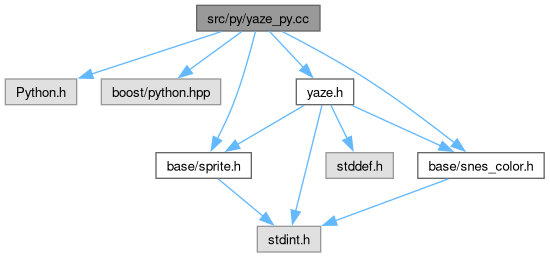
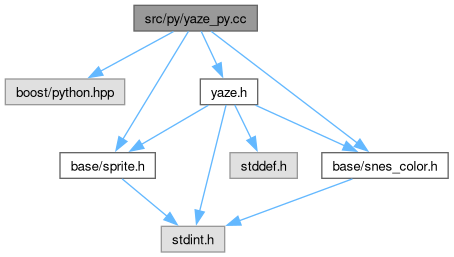
deploy: 594b2498e80bea2a755b8f6b74890b35a70939d6

diff --git a/files.html b/files.html
@@ -304,23 +304,24 @@ $(function(){initNavTree('files.html',''); initResizable(true); });
 <tr id="row_1_4_" class="even"><td class="entry"><span style="width:16px;display:inline-block;">&#160;</span><span id="arr_1_4_" class="arrow" onclick="dynsection.toggleFolder('1_4_')">&#9660;</span><span id="img_1_4_" class="iconfopen" onclick="dynsection.toggleFolder('1_4_')">&#160;</span><a class="el" href="dir_645321f104a15b03e39fc251b9508b71.html" target="_self">ios</a></td><td class="desc"></td></tr>
 <tr id="row_1_4_0_" class="odd"><td class="entry"><span style="width:48px;display:inline-block;">&#160;</span><span class="icondoc"></span><a class="el" href="main_8mm.html" target="_self">main.mm</a></td><td class="desc"></td></tr>
 <tr id="row_1_5_" class="even"><td class="entry"><span style="width:16px;display:inline-block;">&#160;</span><span id="arr_1_5_" class="arrow" onclick="dynsection.toggleFolder('1_5_')">&#9660;</span><span id="img_1_5_" class="iconfopen" onclick="dynsection.toggleFolder('1_5_')">&#160;</span><a class="el" href="dir_a93a2bf9e4fdfd9b0c8f935e1e182eb2.html" target="_self">py</a></td><td class="desc"></td></tr>
-<tr id="row_1_5_0_" class="odd"><td class="entry"><span style="width:48px;display:inline-block;">&#160;</span><span class="icondoc"></span><a class="el" href="yaze__py_8cc.html" target="_self">yaze_py.cc</a></td><td class="desc"></td></tr>
-<tr id="row_1_6_" class="even"><td class="entry"><span style="width:16px;display:inline-block;">&#160;</span><span id="arr_1_6_" class="arrow" onclick="dynsection.toggleFolder('1_6_')">&#9660;</span><span id="img_1_6_" class="iconfopen" onclick="dynsection.toggleFolder('1_6_')">&#160;</span><a class="el" href="dir_120ed4da3e3217b1e7fc0b4f48568e79.html" target="_self">test</a></td><td class="desc"></td></tr>
-<tr id="row_1_6_0_" class="odd"><td class="entry"><span style="width:32px;display:inline-block;">&#160;</span><span id="arr_1_6_0_" class="arrow" onclick="dynsection.toggleFolder('1_6_0_')">&#9658;</span><span id="img_1_6_0_" class="iconfclosed" onclick="dynsection.toggleFolder('1_6_0_')">&#160;</span><a class="el" href="dir_20afefca2b1968c5d0cb0688c7ec6224.html" target="_self">emu</a></td><td class="desc"></td></tr>
-<tr id="row_1_6_0_0_" class="even" style="display:none;"><td class="entry"><span style="width:64px;display:inline-block;">&#160;</span><span class="icondoc"></span><a class="el" href="cpu__test_8cc.html" target="_self">cpu_test.cc</a></td><td class="desc"></td></tr>
-<tr id="row_1_6_0_1_" class="even" style="display:none;"><td class="entry"><span style="width:64px;display:inline-block;">&#160;</span><span class="icondoc"></span><a class="el" href="ppu__test_8cc.html" target="_self">ppu_test.cc</a></td><td class="desc"></td></tr>
-<tr id="row_1_6_0_2_" class="even" style="display:none;"><td class="entry"><span style="width:64px;display:inline-block;">&#160;</span><span class="icondoc"></span><a class="el" href="spc700__test_8cc.html" target="_self">spc700_test.cc</a></td><td class="desc"></td></tr>
-<tr id="row_1_6_1_" class="even"><td class="entry"><span style="width:32px;display:inline-block;">&#160;</span><span id="arr_1_6_1_" class="arrow" onclick="dynsection.toggleFolder('1_6_1_')">&#9658;</span><span id="img_1_6_1_" class="iconfclosed" onclick="dynsection.toggleFolder('1_6_1_')">&#160;</span><a class="el" href="dir_55da2eb2de168aa04f8184897c7a3cff.html" target="_self">gfx</a></td><td class="desc"></td></tr>
-<tr id="row_1_6_1_0_" class="odd" style="display:none;"><td class="entry"><span style="width:64px;display:inline-block;">&#160;</span><span class="icondoc"></span><a class="el" href="compression__test_8cc.html" target="_self">compression_test.cc</a></td><td class="desc"></td></tr>
-<tr id="row_1_6_1_1_" class="odd" style="display:none;"><td class="entry"><span style="width:64px;display:inline-block;">&#160;</span><span class="icondoc"></span><a class="el" href="snes__palette__test_8cc.html" target="_self">snes_palette_test.cc</a></td><td class="desc"></td></tr>
-<tr id="row_1_6_2_" class="odd"><td class="entry"><span style="width:32px;display:inline-block;">&#160;</span><span id="arr_1_6_2_" class="arrow" onclick="dynsection.toggleFolder('1_6_2_')">&#9658;</span><span id="img_1_6_2_" class="iconfclosed" onclick="dynsection.toggleFolder('1_6_2_')">&#160;</span><a class="el" href="dir_3d048fb26aa7cc0556c935795e98647c.html" target="_self">zelda3</a></td><td class="desc"></td></tr>
-<tr id="row_1_6_2_0_" class="even" style="display:none;"><td class="entry"><span style="width:64px;display:inline-block;">&#160;</span><span class="icondoc"></span><a class="el" href="room__object__test_8cc.html" target="_self">room_object_test.cc</a></td><td class="desc"></td></tr>
-<tr id="row_1_6_2_1_" class="even" style="display:none;"><td class="entry"><span style="width:64px;display:inline-block;">&#160;</span><span class="icondoc"></span><a class="el" href="sprite__builder__test_8cc.html" target="_self">sprite_builder_test.cc</a></td><td class="desc"></td></tr>
-<tr id="row_1_6_3_" class="even"><td class="entry"><span style="width:48px;display:inline-block;">&#160;</span><span class="icondoc"></span><a class="el" href="libc__test_8cc.html" target="_self">libc_test.cc</a></td><td class="desc"></td></tr>
-<tr id="row_1_6_4_" class="odd"><td class="entry"><span style="width:48px;display:inline-block;">&#160;</span><span class="icondoc"></span><a class="el" href="rom__test_8cc.html" target="_self">rom_test.cc</a></td><td class="desc"></td></tr>
-<tr id="row_1_6_5_" class="even"><td class="entry"><span style="width:48px;display:inline-block;">&#160;</span><span class="icondoc"></span><a class="el" href="yaze__test_8cc.html" target="_self">yaze_test.cc</a></td><td class="desc"></td></tr>
-<tr id="row_1_7_" class="odd"><td class="entry"><span style="width:32px;display:inline-block;">&#160;</span><span class="icondoc"></span><a class="el" href="yaze_8cc.html" target="_self">yaze.cc</a></td><td class="desc"></td></tr>
-<tr id="row_1_8_" class="even"><td class="entry"><span style="width:32px;display:inline-block;">&#160;</span><a href="yaze_8h_source.html"><span class="icondoc"></span></a><a class="el" href="yaze_8h.html" target="_self">yaze.h</a></td><td class="desc"></td></tr>
+<tr id="row_1_5_0_" class="odd"><td class="entry"><span style="width:48px;display:inline-block;">&#160;</span><span class="icondoc"></span><a class="el" href="yaze__c__py_8cc.html" target="_self">yaze_c_py.cc</a></td><td class="desc"></td></tr>
+<tr id="row_1_5_1_" class="even"><td class="entry"><span style="width:48px;display:inline-block;">&#160;</span><span class="icondoc"></span><a class="el" href="yaze__py_8cc.html" target="_self">yaze_py.cc</a></td><td class="desc"></td></tr>
+<tr id="row_1_6_" class="odd"><td class="entry"><span style="width:16px;display:inline-block;">&#160;</span><span id="arr_1_6_" class="arrow" onclick="dynsection.toggleFolder('1_6_')">&#9660;</span><span id="img_1_6_" class="iconfopen" onclick="dynsection.toggleFolder('1_6_')">&#160;</span><a class="el" href="dir_120ed4da3e3217b1e7fc0b4f48568e79.html" target="_self">test</a></td><td class="desc"></td></tr>
+<tr id="row_1_6_0_" class="even"><td class="entry"><span style="width:32px;display:inline-block;">&#160;</span><span id="arr_1_6_0_" class="arrow" onclick="dynsection.toggleFolder('1_6_0_')">&#9658;</span><span id="img_1_6_0_" class="iconfclosed" onclick="dynsection.toggleFolder('1_6_0_')">&#160;</span><a class="el" href="dir_20afefca2b1968c5d0cb0688c7ec6224.html" target="_self">emu</a></td><td class="desc"></td></tr>
+<tr id="row_1_6_0_0_" class="odd" style="display:none;"><td class="entry"><span style="width:64px;display:inline-block;">&#160;</span><span class="icondoc"></span><a class="el" href="cpu__test_8cc.html" target="_self">cpu_test.cc</a></td><td class="desc"></td></tr>
+<tr id="row_1_6_0_1_" class="odd" style="display:none;"><td class="entry"><span style="width:64px;display:inline-block;">&#160;</span><span class="icondoc"></span><a class="el" href="ppu__test_8cc.html" target="_self">ppu_test.cc</a></td><td class="desc"></td></tr>
+<tr id="row_1_6_0_2_" class="odd" style="display:none;"><td class="entry"><span style="width:64px;display:inline-block;">&#160;</span><span class="icondoc"></span><a class="el" href="spc700__test_8cc.html" target="_self">spc700_test.cc</a></td><td class="desc"></td></tr>
+<tr id="row_1_6_1_" class="odd"><td class="entry"><span style="width:32px;display:inline-block;">&#160;</span><span id="arr_1_6_1_" class="arrow" onclick="dynsection.toggleFolder('1_6_1_')">&#9658;</span><span id="img_1_6_1_" class="iconfclosed" onclick="dynsection.toggleFolder('1_6_1_')">&#160;</span><a class="el" href="dir_55da2eb2de168aa04f8184897c7a3cff.html" target="_self">gfx</a></td><td class="desc"></td></tr>
+<tr id="row_1_6_1_0_" class="even" style="display:none;"><td class="entry"><span style="width:64px;display:inline-block;">&#160;</span><span class="icondoc"></span><a class="el" href="compression__test_8cc.html" target="_self">compression_test.cc</a></td><td class="desc"></td></tr>
+<tr id="row_1_6_1_1_" class="even" style="display:none;"><td class="entry"><span style="width:64px;display:inline-block;">&#160;</span><span class="icondoc"></span><a class="el" href="snes__palette__test_8cc.html" target="_self">snes_palette_test.cc</a></td><td class="desc"></td></tr>
+<tr id="row_1_6_2_" class="even"><td class="entry"><span style="width:32px;display:inline-block;">&#160;</span><span id="arr_1_6_2_" class="arrow" onclick="dynsection.toggleFolder('1_6_2_')">&#9658;</span><span id="img_1_6_2_" class="iconfclosed" onclick="dynsection.toggleFolder('1_6_2_')">&#160;</span><a class="el" href="dir_3d048fb26aa7cc0556c935795e98647c.html" target="_self">zelda3</a></td><td class="desc"></td></tr>
+<tr id="row_1_6_2_0_" class="odd" style="display:none;"><td class="entry"><span style="width:64px;display:inline-block;">&#160;</span><span class="icondoc"></span><a class="el" href="room__object__test_8cc.html" target="_self">room_object_test.cc</a></td><td class="desc"></td></tr>
+<tr id="row_1_6_2_1_" class="odd" style="display:none;"><td class="entry"><span style="width:64px;display:inline-block;">&#160;</span><span class="icondoc"></span><a class="el" href="sprite__builder__test_8cc.html" target="_self">sprite_builder_test.cc</a></td><td class="desc"></td></tr>
+<tr id="row_1_6_3_" class="odd"><td class="entry"><span style="width:48px;display:inline-block;">&#160;</span><span class="icondoc"></span><a class="el" href="libc__test_8cc.html" target="_self">libc_test.cc</a></td><td class="desc"></td></tr>
+<tr id="row_1_6_4_" class="even"><td class="entry"><span style="width:48px;display:inline-block;">&#160;</span><span class="icondoc"></span><a class="el" href="rom__test_8cc.html" target="_self">rom_test.cc</a></td><td class="desc"></td></tr>
+<tr id="row_1_6_5_" class="odd"><td class="entry"><span style="width:48px;display:inline-block;">&#160;</span><span class="icondoc"></span><a class="el" href="yaze__test_8cc.html" target="_self">yaze_test.cc</a></td><td class="desc"></td></tr>
+<tr id="row_1_7_" class="even"><td class="entry"><span style="width:32px;display:inline-block;">&#160;</span><span class="icondoc"></span><a class="el" href="yaze_8cc.html" target="_self">yaze.cc</a></td><td class="desc"></td></tr>
+<tr id="row_1_8_" class="odd"><td class="entry"><span style="width:32px;display:inline-block;">&#160;</span><a href="yaze_8h_source.html"><span class="icondoc"></span></a><a class="el" href="yaze_8h.html" target="_self">yaze.h</a></td><td class="desc"></td></tr>
 </table>
 </div><!-- directory -->
 </div><!-- contents -->

diff --git a/yaze__c__py_8cc.html b/yaze__c__py_8cc.html
@@ -5,7 +5,7 @@
 <meta http-equiv="X-UA-Compatible" content="IE=11"/>
 <meta name="generator" content="Doxygen 1.11.0"/>
 <meta name="viewport" content="width=device-width, initial-scale=1"/>
-<title>yaze: src/py Directory Reference</title>
+<title>yaze: src/py/yaze_c_py.cc File Reference</title>
 <link href="tabs.css" rel="stylesheet" type="text/css"/>
 <script type="text/javascript">var page_layout=1;</script>
 <script type="text/javascript" src="jquery.js"></script>
@@ -78,7 +78,7 @@ $(function() { codefold.init(0); });
 </div>
 <script type="text/javascript">
 /* @license magnet:?xt=urn:btih:d3d9a9a6595521f9666a5e94cc830dab83b65699&amp;dn=expat.txt MIT */
-$(function(){initNavTree('dir_a93a2bf9e4fdfd9b0c8f935e1e182eb2.html',''); initResizable(true); });
+$(function(){initNavTree('yaze__c__py_8cc.html',''); initResizable(true); });
 /* @license-end */
 </script>
 <div id="doc-content">
@@ -104,35 +104,26 @@ $(function(){initNavTree('dir_a93a2bf9e4fdfd9b0c8f935e1e182eb2.html',''); initRe
 </div>
 
 <div class="header">
-  <div class="headertitle"><div class="title">py Directory Reference</div></div>
+  <div class="headertitle"><div class="title">yaze_c_py.cc File Reference</div></div>
 </div><!--header-->
 <div class="contents">
-<div class="dynheader">
-Directory dependency graph for py:</div>
+<div class="textblock"><code>#include &lt;Python.h&gt;</code><br />
+</div><div class="textblock"><div class="dynheader">
+Include dependency graph for yaze_c_py.cc:</div>
 <div class="dyncontent">
-<div class="center"><img src="dir_a93a2bf9e4fdfd9b0c8f935e1e182eb2_dep.png" border="0" usemap="#adir__a93a2bf9e4fdfd9b0c8f935e1e182eb2__dep" alt="src/py"/></div>
-<map name="adir__a93a2bf9e4fdfd9b0c8f935e1e182eb2__dep" id="adir__a93a2bf9e4fdfd9b0c8f935e1e182eb2__dep">
-<area shape="rect" href="dir_0af1587c8378955de40f48b4bd1869f0.html" title="base" alt="" coords="27,126,77,152"/>
-<area shape="rect" href="dir_a93a2bf9e4fdfd9b0c8f935e1e182eb2.html" title="py" alt="" coords="33,52,71,78"/>
-<area shape="poly" href="dir_000029_000002.html" alt="" coords="55,78,55,110,49,110,49,78"/>
-<area shape="rect" href="dir_000029_000002.html" title="2" alt="" coords="57,100,64,115"/>
-<area shape="rect" href="dir_68267d1309a1af8e8297ef4c3efbcdba.html" title="src" alt="" coords="16,16,88,162"/>
+<div class="center"><img src="yaze__c__py_8cc__incl.png" border="0" usemap="#asrc_2py_2yaze__c__py_8cc" alt=""/></div>
+<map name="asrc_2py_2yaze__c__py_8cc" id="asrc_2py_2yaze__c__py_8cc">
+<area shape="rect" title=" " alt="" coords="5,5,143,31"/>
+<area shape="rect" title=" " alt="" coords="38,79,110,105"/>
+<area shape="poly" title=" " alt="" coords="77,31,77,63,71,63,71,31"/>
 </map>
 </div>
-<table class="memberdecls">
-<tr class="heading"><td colspan="2"><h2 class="groupheader"><a id="files" name="files"></a>
-Files</h2></td></tr>
-<tr class="memitem:"><td class="memItemLeft" align="right" valign="top"><span class="icondoc"></span>&#160;</td><td class="memItemRight" valign="bottom"><a class="el" href="yaze__c__py_8cc.html">yaze_c_py.cc</a></td></tr>
-<tr class="separator:"><td class="memSeparator" colspan="2">&#160;</td></tr>
-<tr class="memitem:"><td class="memItemLeft" align="right" valign="top"><span class="icondoc"></span>&#160;</td><td class="memItemRight" valign="bottom"><a class="el" href="yaze__py_8cc.html">yaze_py.cc</a></td></tr>
-<tr class="separator:"><td class="memSeparator" colspan="2">&#160;</td></tr>
-</table>
-</div><!-- contents -->
+</div></div><!-- contents -->
 </div><!-- doc-content -->
 <!-- start footer part -->
 <div id="nav-path" class="navpath"><!-- id is needed for treeview function! -->
   <ul>
-    <li class="navelem"><a class="el" href="dir_68267d1309a1af8e8297ef4c3efbcdba.html">src</a></li><li class="navelem"><a class="el" href="dir_a93a2bf9e4fdfd9b0c8f935e1e182eb2.html">py</a></li>
+    <li class="navelem"><a class="el" href="dir_68267d1309a1af8e8297ef4c3efbcdba.html">src</a></li><li class="navelem"><a class="el" href="dir_a93a2bf9e4fdfd9b0c8f935e1e182eb2.html">py</a></li><li class="navelem"><a class="el" href="yaze__c__py_8cc.html">yaze_c_py.cc</a></li>
     <li class="footer">Generated by <a href="https://www.doxygen.org/index.html"><img class="footer" src="doxygen.svg" width="104" height="31" alt="doxygen"/></a> 1.11.0 </li>
   </ul>
 </div>

diff --git a/yaze__py_8cc.html b/yaze__py_8cc.html
@@ -109,8 +109,7 @@ $(function(){initNavTree('yaze__py_8cc.html',''); initResizable(true); });
   <div class="headertitle"><div class="title">yaze_py.cc File Reference</div></div>
 </div><!--header-->
 <div class="contents">
-<div class="textblock"><code>#include &lt;Python.h&gt;</code><br />
-<code>#include &lt;boost/python.hpp&gt;</code><br />
+<div class="textblock"><code>#include &lt;boost/python.hpp&gt;</code><br />
 <code>#include &quot;<a class="el" href="base_2snes__color_8h_source.html">base/snes_color.h</a>&quot;</code><br />
 <code>#include &quot;<a class="el" href="base_2sprite_8h_source.html">base/sprite.h</a>&quot;</code><br />
 <code>#include &quot;<a class="el" href="yaze_8h_source.html">yaze.h</a>&quot;</code><br />
@@ -119,25 +118,23 @@ Include dependency graph for yaze_py.cc:</div>
 <div class="dyncontent">
 <div class="center"><img src="yaze__py_8cc__incl.png" border="0" usemap="#asrc_2py_2yaze__py_8cc" alt=""/></div>
 <map name="asrc_2py_2yaze__py_8cc" id="asrc_2py_2yaze__py_8cc">
-<area shape="rect" title=" " alt="" coords="197,5,320,31"/>
-<area shape="rect" title=" " alt="" coords="5,79,77,105"/>
-<area shape="poly" title=" " alt="" coords="222,34,93,76,91,71,221,29"/>
-<area shape="rect" title=" " alt="" coords="101,79,221,105"/>
-<area shape="poly" title=" " alt="" coords="243,34,191,72,188,68,240,29"/>
-<area shape="rect" href="base_2snes__color_8h.html" title=" " alt="" coords="418,153,544,178"/>
-<area shape="poly" title=" " alt="" coords="284,29,368,77,456,141,453,145,365,81,281,34"/>
-<area shape="rect" href="base_2sprite_8h.html" title=" " alt="" coords="156,153,251,178"/>
-<area shape="poly" title=" " alt="" coords="258,32,235,106,220,140,215,137,231,104,253,30"/>
-<area shape="rect" href="yaze_8h.html" title=" " alt="" coords="296,79,354,105"/>
-<area shape="poly" title=" " alt="" coords="271,29,305,66,301,69,267,33"/>
-<area shape="rect" title=" " alt="" coords="257,226,321,252"/>
-<area shape="poly" title=" " alt="" coords="449,181,336,223,334,218,448,176"/>
-<area shape="poly" title=" " alt="" coords="220,177,265,214,262,218,216,181"/>
-<area shape="poly" title=" " alt="" coords="353,103,442,143,440,148,350,108"/>
-<area shape="poly" title=" " alt="" coords="325,106,298,212,293,211,319,104"/>
-<area shape="poly" title=" " alt="" coords="306,108,239,147,236,142,303,103"/>
-<area shape="rect" title=" " alt="" coords="326,153,393,178"/>
-<area shape="poly" title=" " alt="" coords="333,104,349,137,345,140,328,106"/>
+<area shape="rect" title=" " alt="" coords="134,5,257,31"/>
+<area shape="rect" title=" " alt="" coords="5,79,125,105"/>
+<area shape="poly" title=" " alt="" coords="175,34,101,74,99,69,172,29"/>
+<area shape="rect" href="base_2snes__color_8h.html" title=" " alt="" coords="322,153,448,178"/>
+<area shape="poly" title=" " alt="" coords="213,29,359,141,356,145,210,33"/>
+<area shape="rect" href="base_2sprite_8h.html" title=" " alt="" coords="60,153,155,178"/>
+<area shape="poly" title=" " alt="" coords="191,33,125,141,120,138,186,30"/>
+<area shape="rect" href="yaze_8h.html" title=" " alt="" coords="200,79,258,105"/>
+<area shape="poly" title=" " alt="" coords="204,30,219,64,214,66,199,32"/>
+<area shape="rect" title=" " alt="" coords="161,226,225,252"/>
+<area shape="poly" title=" " alt="" coords="353,181,240,223,238,218,352,176"/>
+<area shape="poly" title=" " alt="" coords="124,177,169,214,166,218,120,181"/>
+<area shape="poly" title=" " alt="" coords="257,103,346,143,344,148,254,108"/>
+<area shape="poly" title=" " alt="" coords="229,106,202,212,197,211,223,104"/>
+<area shape="poly" title=" " alt="" coords="210,108,143,147,140,142,207,103"/>
+<area shape="rect" title=" " alt="" coords="230,153,297,178"/>
+<area shape="poly" title=" " alt="" coords="237,104,253,137,249,140,232,106"/>
 </map>
 </div>
 </div><table class="memberdecls">

diff --git a/search/all_1c.js b/search/all_1c.js
@@ -56,15 +56,16 @@ var searchData=
   ['yaze_3a_3acli_53',['cli',['../namespaceyaze_1_1cli.html',1,'yaze']]],
   ['yaze_3a_3acli_3a_3aanonymous_5fnamespace_7bz3ed_2ecc_7d_54',['anonymous_namespace{z3ed.cc}',['../namespaceyaze_1_1cli_1_1anonymous__namespace_02z3ed_8cc_03.html',1,'yaze::cli']]],
   ['yaze_3a_3acli_3a_3acolor_55',['Color',['../namespaceyaze_1_1cli_1_1Color.html',1,'yaze::cli']]],
-  ['yaze_5fcleanup_56',['yaze_cleanup',['../yaze_8cc.html#ae2c64be32a8f7916912aacef327b5f43',1,'yaze_cleanup(void):&#160;yaze.cc'],['../yaze_8h.html#ae2c64be32a8f7916912aacef327b5f43',1,'yaze_cleanup(void):&#160;yaze.cc']]],
-  ['yaze_5finitialize_57',['yaze_initialize',['../yaze_8cc.html#a97d98bdf26ec1c1ed6ddfe923aae147d',1,'yaze_initialize(void):&#160;yaze.cc'],['../yaze_8h.html#a97d98bdf26ec1c1ed6ddfe923aae147d',1,'yaze_initialize(void):&#160;yaze.cc']]],
-  ['yaze_5fpy_2ecc_58',['yaze_py.cc',['../yaze__py_8cc.html',1,'']]],
-  ['yaze_5ftest_59',['yaze_test',['../namespaceyaze__test.html',1,'']]],
-  ['yaze_5ftest_2ecc_60',['yaze_test.cc',['../yaze__test_8cc.html',1,'']]],
-  ['yaze_5ftest_3a_3aemu_5ftest_61',['emu_test',['../namespaceyaze__test_1_1emu__test.html',1,'yaze_test']]],
-  ['yaze_5ftest_3a_3agfx_5ftest_62',['gfx_test',['../namespaceyaze__test_1_1gfx__test.html',1,'yaze_test']]],
-  ['yaze_5ftest_3a_3agfx_5ftest_3a_3aanonymous_5fnamespace_7bcompression_5ftest_2ecc_7d_63',['anonymous_namespace{compression_test.cc}',['../namespaceyaze__test_1_1gfx__test_1_1anonymous__namespace_02compression__test_8cc_03.html',1,'yaze_test::gfx_test']]],
-  ['yaze_5ftest_3a_3agfx_5ftest_3a_3aanonymous_5fnamespace_7bsnes_5fpalette_5ftest_2ecc_7d_64',['anonymous_namespace{snes_palette_test.cc}',['../namespaceyaze__test_1_1gfx__test_1_1anonymous__namespace_02snes__palette__test_8cc_03.html',1,'yaze_test::gfx_test']]],
-  ['yaze_5ftest_3a_3azelda3_5ftest_65',['zelda3_test',['../namespaceyaze__test_1_1zelda3__test.html',1,'yaze_test']]],
-  ['yet_20another_20zelda3_20editor_66',['Yet Another Zelda3 Editor',['../md_README.html',1,'']]]
+  ['yaze_5fc_5fpy_2ecc_56',['yaze_c_py.cc',['../yaze__c__py_8cc.html',1,'']]],
+  ['yaze_5fcleanup_57',['yaze_cleanup',['../yaze_8cc.html#ae2c64be32a8f7916912aacef327b5f43',1,'yaze_cleanup(void):&#160;yaze.cc'],['../yaze_8h.html#ae2c64be32a8f7916912aacef327b5f43',1,'yaze_cleanup(void):&#160;yaze.cc']]],
+  ['yaze_5finitialize_58',['yaze_initialize',['../yaze_8cc.html#a97d98bdf26ec1c1ed6ddfe923aae147d',1,'yaze_initialize(void):&#160;yaze.cc'],['../yaze_8h.html#a97d98bdf26ec1c1ed6ddfe923aae147d',1,'yaze_initialize(void):&#160;yaze.cc']]],
+  ['yaze_5fpy_2ecc_59',['yaze_py.cc',['../yaze__py_8cc.html',1,'']]],
+  ['yaze_5ftest_60',['yaze_test',['../namespaceyaze__test.html',1,'']]],
+  ['yaze_5ftest_2ecc_61',['yaze_test.cc',['../yaze__test_8cc.html',1,'']]],
+  ['yaze_5ftest_3a_3aemu_5ftest_62',['emu_test',['../namespaceyaze__test_1_1emu__test.html',1,'yaze_test']]],
+  ['yaze_5ftest_3a_3agfx_5ftest_63',['gfx_test',['../namespaceyaze__test_1_1gfx__test.html',1,'yaze_test']]],
+  ['yaze_5ftest_3a_3agfx_5ftest_3a_3aanonymous_5fnamespace_7bcompression_5ftest_2ecc_7d_64',['anonymous_namespace{compression_test.cc}',['../namespaceyaze__test_1_1gfx__test_1_1anonymous__namespace_02compression__test_8cc_03.html',1,'yaze_test::gfx_test']]],
+  ['yaze_5ftest_3a_3agfx_5ftest_3a_3aanonymous_5fnamespace_7bsnes_5fpalette_5ftest_2ecc_7d_65',['anonymous_namespace{snes_palette_test.cc}',['../namespaceyaze__test_1_1gfx__test_1_1anonymous__namespace_02snes__palette__test_8cc_03.html',1,'yaze_test::gfx_test']]],
+  ['yaze_5ftest_3a_3azelda3_5ftest_66',['zelda3_test',['../namespaceyaze__test_1_1zelda3__test.html',1,'yaze_test']]],
+  ['yet_20another_20zelda3_20editor_67',['Yet Another Zelda3 Editor',['../md_README.html',1,'']]]
 ];

diff --git a/navtreeindex51.js b/navtreeindex51.js
@@ -9,8 +9,9 @@ var NAVTREEINDEX51 =
 "yaze_8h.html#a97d98bdf26ec1c1ed6ddfe923aae147d":[10,0,1,8,2],
 "yaze_8h.html#ae2c64be32a8f7916912aacef327b5f43":[10,0,1,8,3],
 "yaze_8h_source.html":[10,0,1,8],
-"yaze__py_8cc.html":[10,0,1,5,0],
-"yaze__py_8cc.html#ac188ed8af872505482048f48f3fcea1c":[10,0,1,5,0,0],
+"yaze__c__py_8cc.html":[10,0,1,5,0],
+"yaze__py_8cc.html":[10,0,1,5,1],
+"yaze__py_8cc.html#ac188ed8af872505482048f48f3fcea1c":[10,0,1,5,1,0],
 "yaze__test_8cc.html":[10,0,1,6,5],
 "yaze__test_8cc.html#a0ddf1224851353fc92bfbff6f499fa97":[10,0,1,6,5,1],
 "yaze__test_8cc.html#a51f528deaaeb973f417b46a2ec36f850":[10,0,1,6,5,0],

diff --git a/doxygen_crawl.html b/doxygen_crawl.html
@@ -259,6 +259,7 @@
 <a href="extension_8cc.html"/>
 <a href="extension_8h.html"/>
 <a href="main_8mm.html"/>
+<a href="yaze__c__py_8cc.html"/>
 <a href="yaze__py_8cc.html"/>
 <a href="cpu__test_8cc.html"/>
 <a href="ppu__test_8cc.html"/>
@@ -10364,6 +10365,7 @@
 <a href="yaze_8h.html#a3c42f8cb1bfba12aa06c785afe2a57da"/>
 <a href="yaze_8h.html#a97d98bdf26ec1c1ed6ddfe923aae147d"/>
 <a href="yaze_8h.html#ae2c64be32a8f7916912aacef327b5f43"/>
+<a href="yaze__c__py_8cc.html"/>
 <a href="yaze__py_8cc.html"/>
 <a href="yaze__py_8cc.html#ac188ed8af872505482048f48f3fcea1c"/>
 <a href="yaze__test_8cc.html"/>

diff --git a/search/files_10.js b/search/files_10.js
@@ -2,6 +2,7 @@ var searchData=
 [
   ['yaze_2ecc_0',['yaze.cc',['../app_2yaze_8cc.html',1,'(Global Namespace)'],['../yaze_8cc.html',1,'(Global Namespace)']]],
   ['yaze_2eh_1',['yaze.h',['../yaze_8h.html',1,'']]],
-  ['yaze_5fpy_2ecc_2',['yaze_py.cc',['../yaze__py_8cc.html',1,'']]],
-  ['yaze_5ftest_2ecc_3',['yaze_test.cc',['../yaze__test_8cc.html',1,'']]]
+  ['yaze_5fc_5fpy_2ecc_2',['yaze_c_py.cc',['../yaze__c__py_8cc.html',1,'']]],
+  ['yaze_5fpy_2ecc_3',['yaze_py.cc',['../yaze__py_8cc.html',1,'']]],
+  ['yaze_5ftest_2ecc_4',['yaze_test.cc',['../yaze__test_8cc.html',1,'']]]
 ];

diff --git a/dir_a93a2bf9e4fdfd9b0c8f935e1e182eb2.js b/dir_a93a2bf9e4fdfd9b0c8f935e1e182eb2.js
@@ -1,4 +1,5 @@
 var dir_a93a2bf9e4fdfd9b0c8f935e1e182eb2 =
 [
+    [ "yaze_c_py.cc", "yaze__c__py_8cc.html", null ],
     [ "yaze_py.cc", "yaze__py_8cc.html", "yaze__py_8cc" ]
 ];
